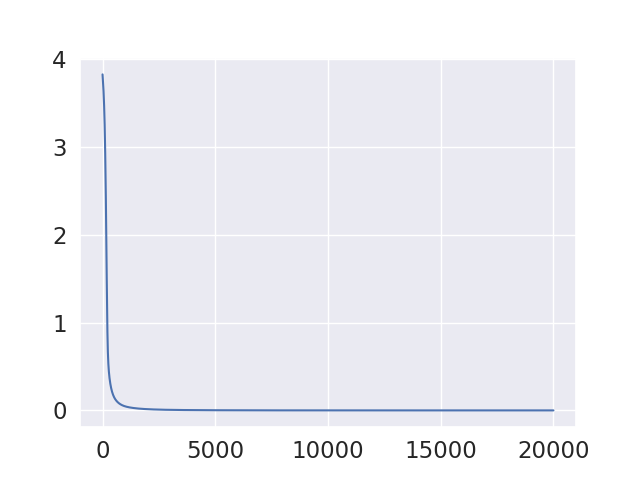
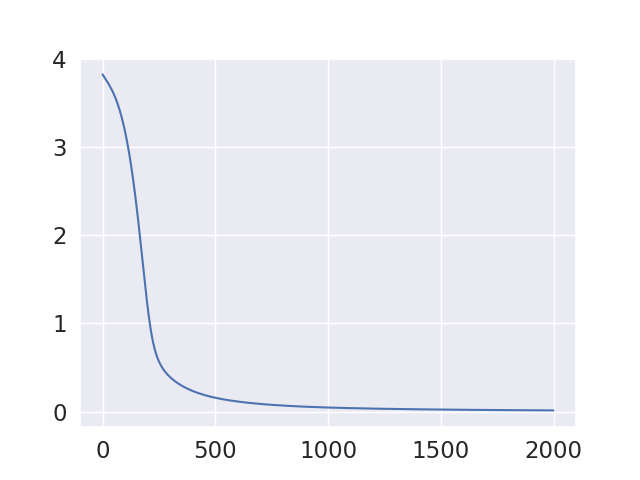
.

diff --git a/cat_tests/test_hyps.py b/cat_tests/test_hyps.py
@@ -98,6 +98,7 @@ num_classes_grid = [128]
 device = torch.device("cuda:0")
 num_steps = 20000
 #num_steps = 4000
+num_steps = 2000
 
 def init_optimizer(model):
     parameters = list(model.parameters())
@@ -128,8 +129,9 @@ def print_stats(model):
     #num_sv = (s > 1e-5).sum().item()
     num_sv = (s > 1).sum().item()
     print(f"num sv > 1: {num_sv} || H: {H(lp).mean().item():.2f} || min/max logit: {logits.min().item():.2f}/{logits.max().item():.2f} || temp {model.temp.item():.2f}")
+    return s
 
-def plot(losses, name, num_starts, num_classes, learn_temp=False):
+def plot(losses, svs, name, num_starts, num_classes, learn_temp=False):
     import seaborn as sns
     import matplotlib.pyplot as plt
 
@@ -137,6 +139,12 @@ def plot(losses, name, num_starts, num_classes, learn_temp=False):
     fig, ax = plt.subplots()
     g = sns.lineplot(x=np.arange(len(losses)), y=losses, ax=ax)
     fig.savefig(f"cat_tests/{name}-{num_starts}-{num_classes}-{'lt' if learn_temp else 'nol'}.png")
+    plt.close(fig)
+
+    sns.set(font_scale=1.5)
+    fig, ax = plt.subplots()
+    g = sns.histplot(x=np.arange(len(svs)), y=svs.cpu().detach().numpy(), ax=ax)
+    fig.savefig(f"cat_tests/svs-{name}-{num_starts}-{num_classes}-{'lt' if learn_temp else 'nol'}.png")
     plt.close(fig)
 
 def run_fit(
@@ -163,10 +171,10 @@ def run_fit(
         model.to(device)
         losses = train(true_dist, model, num_steps)
         print(f"SM queries {num_starts} keys {num_classes} ||| KL {losses[-1]:.4} <<<")
-        print_stats(model)
+        svs = print_stats(model)
 
         if plot_losses:
-            plot(losses, "sm", num_starts, num_classes, learn_temp)
+            plot(losses, svs, "sm", num_starts, num_classes, learn_temp)
 
         # kernel
         for feature_dim_ratio, feature_dim in zip_longest(
@@ -183,10 +191,10 @@ def run_fit(
             model.to(device)
             losses = train(true_dist, model, num_steps)
             print(f"K queries {num_starts} keys {num_classes} feats {feature_dim} ||| KL: {losses[-1]:.4f} <<<")
-            print_stats(model)
+            svs = print_stats(model)
 
             if plot_losses:
-                plot(losses, "k", num_starts, num_classes, learn_temp)
+                plot(losses, svs, "k", num_starts, num_classes, learn_temp)
 
             """
             # l2norm
